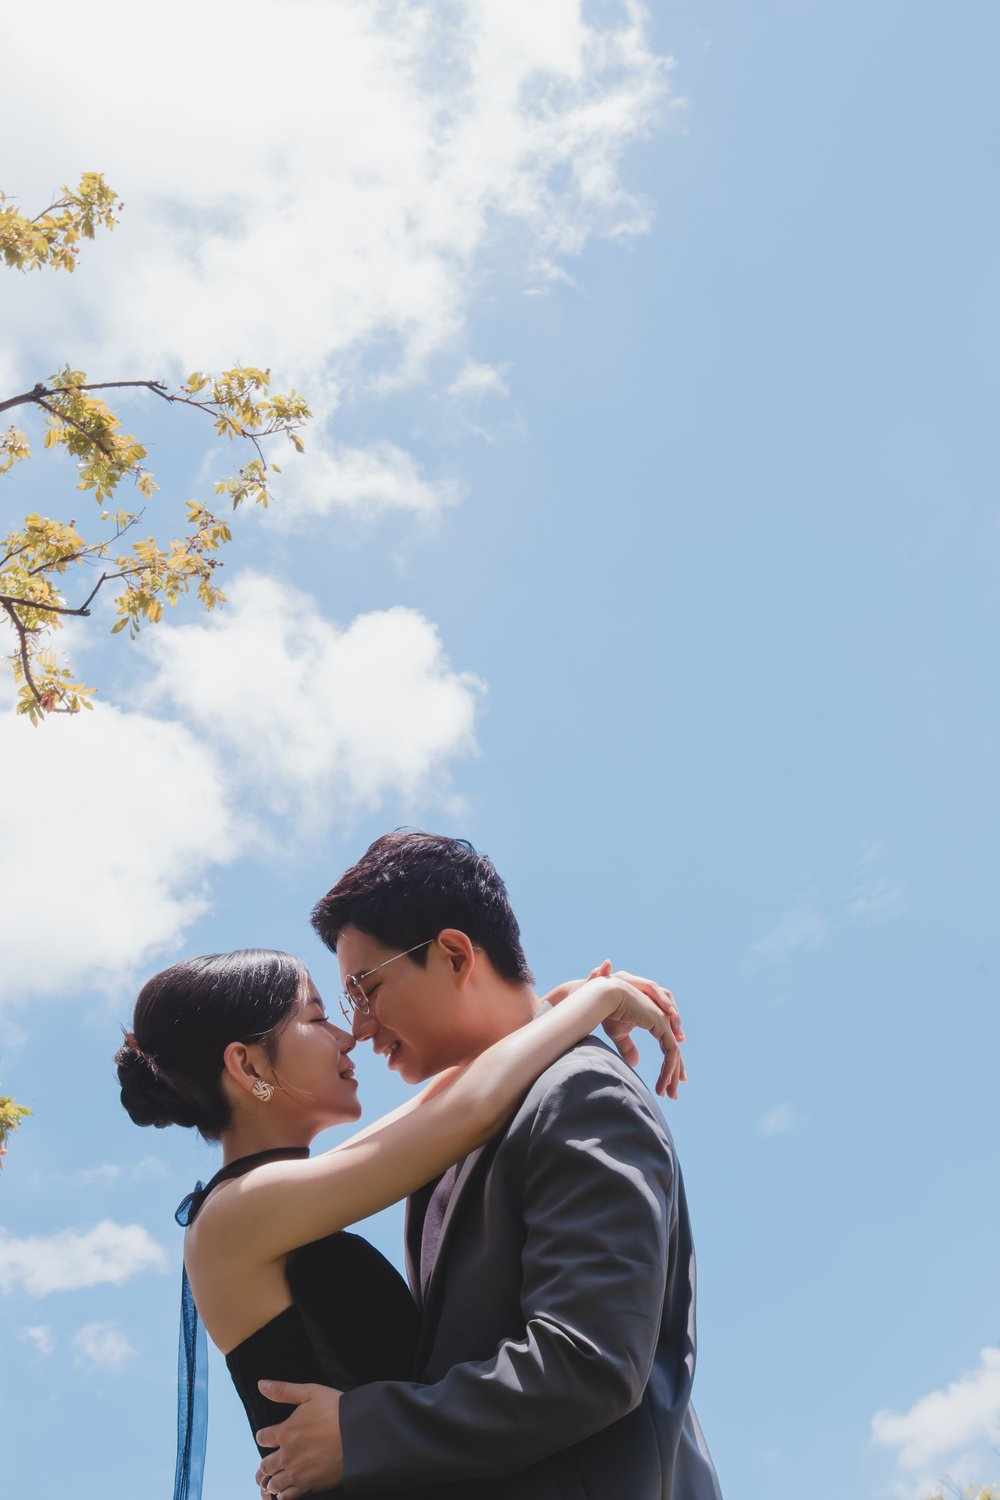
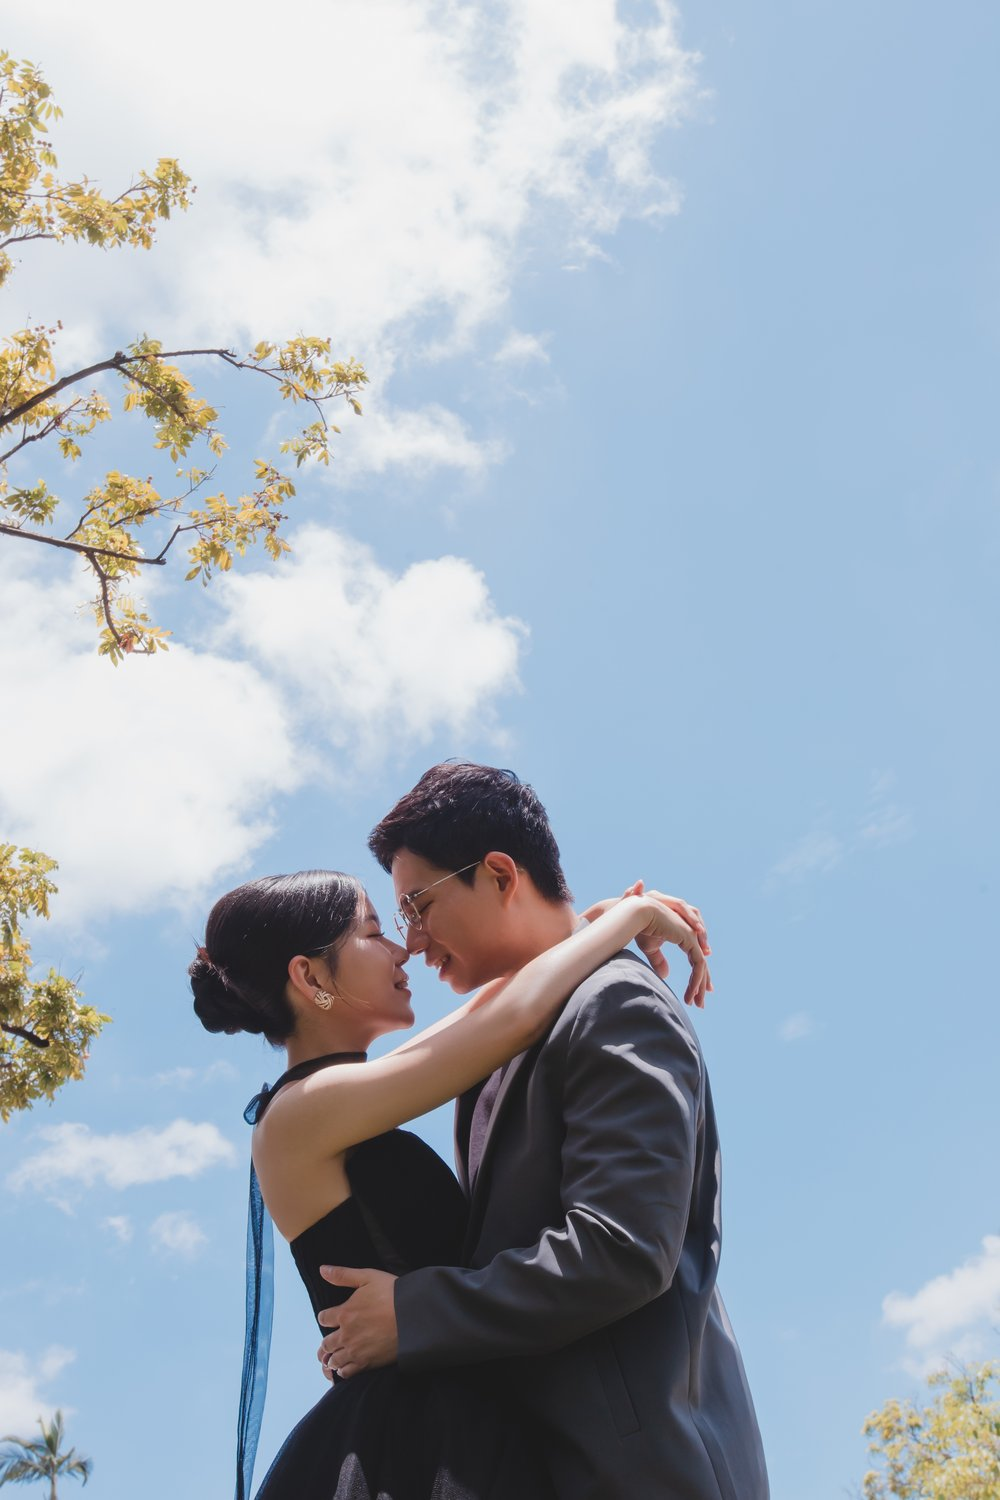
feat(greeting): 「好久不見」改為拍立得相紙，接在致親友照片下方
採用比稿「致親友接好久不見」H 款（依新人手動微調後的配置）：白色相紙微斜 -4 度，照片下方留白寫「好久不見，我們婚禮見」與婚期；手機相紙寬 79.5%、疊住致親友照片淡出的下緣，桌機相紙寬為上方照片的 0.84 倍。
致親友手機照片改用取景比稿甲案：放大倍率由 1.2 降為 1.1，新郎扶在新娘腰上的手與一截裙子入鏡，文字位置同步微調。

diff --git a/src/app/features/greeting/greeting.component.scss b/src/app/features/greeting/greeting.component.scss
@@ -2,8 +2,10 @@
   display: block;
 }
 
-// 底色與上方的「致親友」段落相同，照片上緣淡出時才會直接融進前一段，看不出段落接縫。
+// 底色與上方的「致親友」段落相同。拍立得會往上疊進前一段，所以本段要墊在上面（z-index）。
 .greeting {
+  position: relative;
+  z-index: 1;
   display: flex;
   flex-direction: column;
   align-items: center;
@@ -12,22 +14,39 @@
   text-align: center;
 }
 
-// 手機與桌機各一張照片，依寬度只顯示其中一張；兩張的內容不同，所以各自帶替代文字，而不是用 <picture> 共用一段。
-// 隱藏的那張是 display: none，加上 loading="lazy"，瀏覽器不會去下載它。
-// 照原比例完整顯示、不裁切。手機左右滿版，只淡上下（比稿第 10 式）；
-// 桌機寬 66%、高度不超過螢幕的 70%，照片與下方那句話才能在同一個畫面裡看完，
-// 不貼齊螢幕後左右也會露出邊，所以桌機四邊都淡進背景。
-.greeting__photo {
-  display: block;
-  height: auto;
+// 拍立得相紙（比稿「致親友接好久不見」H 款，依新人手動微調後的配置）：
+// 手機相紙寬為畫面的 79.5%（390 寬時 310），往上疊住「致親友」照片已淡出的下緣約 16px；
+// 平板沿用手機版式，寬度封頂 420，否則相紙會大到比上方照片還搶眼。
+.greeting__card-wrap {
+  width: min(79.5%, 420px);
+  margin-top: -32px;
 }
 
-.greeting__photo--mobile {
+.greeting__card {
+  box-sizing: border-box;
+  display: flex;
+  flex-direction: column;
+  align-items: center;
   width: 100%;
-  aspect-ratio: 2 / 3;
+  padding: 12px 12px 0;
+  background: var(--color-surface);
+  box-shadow: 0 18px 40px rgba(74, 55, 66, 0.22);
+  transform: rotate(-4deg);
+}
+
+// 手機與桌機各一張照片，依寬度只顯示其中一張；兩張的內容不同，所以各自帶替代文字，而不是用 <picture> 共用一段。
+// 隱藏的那張是 display: none，加上 loading="lazy"，瀏覽器不會去下載它。
+.greeting__photo {
+  display: block;
+  width: 100%;
+  height: auto;
   object-fit: cover;
-  -webkit-mask-image: linear-gradient(180deg, transparent 0, #000 12%, #000 82%, transparent 100%);
-  mask-image: linear-gradient(180deg, transparent 0, #000 12%, #000 82%, transparent 100%);
+}
+
+// 相紙裡的照片是 286 × 330，比原圖 2:3 矮，往下取景（62%）讓兩人的全身都在框內。
+.greeting__photo--mobile {
+  aspect-ratio: 286 / 330;
+  object-position: 50% 62%;
 }
 
 .greeting__photo--desktop {
@@ -35,19 +54,20 @@
 }
 
 .greeting__line {
-  margin: 4px 0 0;
+  margin: 16px 0 0;
   font-family: 'Noto Serif TC', serif;
-  font-size: 20px;
+  font-size: 19px;
   font-weight: 500;
-  letter-spacing: 0.34em;
+  letter-spacing: 0.26em;
   // 字距加在字尾會讓置中偏左，左側補同寬的內距抵銷
-  padding-left: 0.34em;
+  padding-left: 0.26em;
+  white-space: nowrap;
   color: #5c4450;
 }
 
 .greeting__date {
-  margin: 12px 0 0;
-  font-size: 15px;
+  margin: 8px 0 18px;
+  font-size: 14px;
   letter-spacing: 0.3em;
   padding-left: 0.3em;
   color: #b08196;
@@ -58,33 +78,36 @@
     padding: 0 0 96px;
   }
 
+  // 相紙寬 = 上方「致親友」照片寬（min(66%, 105vh)）× 0.84，1440 × 900 時為 794；
+  // 桌機的相紙不疊進上一段，而是在照片下方留一段距離、斜斜放著。
+  .greeting__card-wrap {
+    width: calc(min(66%, 105vh) * 0.84);
+    margin-top: 32px;
+  }
+
+  .greeting__card {
+    padding: 16px 16px 0;
+    box-shadow: 0 24px 56px rgba(74, 55, 66, 0.22);
+  }
+
   .greeting__photo--mobile {
     display: none;
   }
 
   .greeting__photo--desktop {
     display: block;
-    // 高度 = 寬 × 2/3 ≤ 70vh，所以寬度上限是 105vh
-    width: min(66%, 105vh);
-    aspect-ratio: 3 / 2;
-    object-fit: cover;
-    -webkit-mask-image:
-      linear-gradient(180deg, transparent 0, #000 10%, #000 86%, transparent 100%),
-      linear-gradient(90deg, transparent 0, #000 8%, #000 92%, transparent 100%);
-    -webkit-mask-composite: source-in;
-    mask-image:
-      linear-gradient(180deg, transparent 0, #000 10%, #000 86%, transparent 100%),
-      linear-gradient(90deg, transparent 0, #000 8%, #000 92%, transparent 100%);
-    mask-composite: intersect;
+    aspect-ratio: 763 / 565;
   }
 
   .greeting__line {
-    margin-top: 8px;
-    font-size: 30px;
+    margin-top: 22px;
+    font-size: 28px;
+    letter-spacing: 0.3em;
+    padding-left: 0.3em;
   }
 
   .greeting__date {
-    margin-top: 16px;
-    font-size: 19px;
+    margin: 10px 0 26px;
+    font-size: 17px;
   }
 }

diff --git a/src/app/features/greeting/greeting.component.html b/src/app/features/greeting/greeting.component.html
@@ -1,33 +1,41 @@
 <section
   class="greeting"
   appScrollReveal
-  [staggerSelector]="'.anim-fade-up, .anim-fade-in'"
+  [staggerSelector]="'.anim-fade-up'"
   [staggerMs]="160"
 >
-  <picture class="webp-picture">
-    <source type="image/webp" [attr.srcset]="text.photoMobileUrl | webpSrcset" sizes="100vw" />
-    <img
-      class="greeting__photo greeting__photo--mobile anim-fade-in"
-      [src]="text.photoMobileUrl"
-      [alt]="text.photoMobileAlt"
-      width="1000"
-      height="1500"
-      loading="lazy"
-      decoding="async"
-    />
-  </picture>
-  <picture class="webp-picture">
-    <source type="image/webp" [attr.srcset]="text.photoDesktopUrl | webpSrcset" sizes="min(66vw, 105vh)" />
-    <img
-      class="greeting__photo greeting__photo--desktop anim-fade-in"
-      [src]="text.photoDesktopUrl"
-      [alt]="text.photoDesktopAlt"
-      width="2400"
-      height="1600"
-      loading="lazy"
-      decoding="async"
-    />
-  </picture>
-  <p class="greeting__line anim-fade-up">{{ text.line }}</p>
-  <p class="greeting__date anim-fade-up">{{ dateDisplay }}</p>
+  <!--
+    外層負責進場的淡入上移、內層負責傾斜：兩者都用 transform，
+    放在同一個元素上的話，進場動畫的 translateY 會蓋掉 rotate，相紙播完動畫就「變正」了。
+  -->
+  <div class="greeting__card-wrap anim-fade-up">
+    <div class="greeting__card">
+      <picture class="webp-picture">
+        <source type="image/webp" [attr.srcset]="text.photoMobileUrl | webpSrcset" sizes="min(80vw, 420px)" />
+        <img
+          class="greeting__photo greeting__photo--mobile"
+          [src]="text.photoMobileUrl"
+          [alt]="text.photoMobileAlt"
+          width="1000"
+          height="1500"
+          loading="lazy"
+          decoding="async"
+        />
+      </picture>
+      <picture class="webp-picture">
+        <source type="image/webp" [attr.srcset]="text.photoDesktopUrl | webpSrcset" sizes="min(56vw, 89vh)" />
+        <img
+          class="greeting__photo greeting__photo--desktop"
+          [src]="text.photoDesktopUrl"
+          [alt]="text.photoDesktopAlt"
+          width="2400"
+          height="1600"
+          loading="lazy"
+          decoding="async"
+        />
+      </picture>
+      <p class="greeting__line">{{ text.line }}</p>
+      <p class="greeting__date">{{ dateDisplay }}</p>
+    </div>
+  </div>
 </section>

diff --git a/src/app/core/config/wedding-content.ts b/src/app/core/config/wedding-content.ts
@@ -274,8 +274,10 @@ export const GREETING_TEXT = {
  * 手機與桌機的照片不同，天空的位置也不同，所以斷行各自維護：手機的天空只有畫面右半邊，
  * 一行最多 11 個字；桌機的天空比較寬，最後兩句併成一行。兩種版本的字要一致，改文案時兩邊都要改。
  *
- * 手機照片是 dobe-5194 放大 1.2 倍、靠右上裁切（原圖左側切掉 672px、下方只取到 5043px）：
- * 不放大的話右側天空只有約 170px 寬，一行放不下 9 個字以上。換照片時要重新確認天空夠不夠放字。
+ * 手機照片是 dobe-5194 放大 1.1 倍、靠右上裁切（原圖左側切掉 367px、下方取到 5500px）：
+ * 放大是為了讓右側天空夠寬放字（不放大只有約 170px，一行放不下 9 個字以上）；
+ * 只放大 1.1 而不是更多，是為了讓新郎扶在新娘腰上的手與一截裙子入鏡（比稿「致親友手機照片取景」甲案）。
+ * 換照片時要重新確認天空夠不夠放字、人有沒有被裁太多。
  */
 export const DEAR_FRIENDS_TEXT = {
   heading: '致 親愛的家人朋友',

diff --git a/src/app/features/dear-friends/dear-friends.component.scss b/src/app/features/dear-friends/dear-friends.component.scss
@@ -37,8 +37,8 @@
 }
 
 .dear__frame--mobile .dear__photo {
-  -webkit-mask-image: linear-gradient(180deg, transparent 0, #000 7%, #000 84%, transparent 100%);
-  mask-image: linear-gradient(180deg, transparent 0, #000 7%, #000 84%, transparent 100%);
+  -webkit-mask-image: linear-gradient(180deg, transparent 0, #000 7%, #000 88%, transparent 100%);
+  mask-image: linear-gradient(180deg, transparent 0, #000 7%, #000 88%, transparent 100%);
 }
 
 // 文字後方把天空微微壓暗，白字才不會被雲吃掉；邊緣完全透明，看不出一塊暗框。
@@ -55,9 +55,9 @@
 
 .dear__frame--mobile .dear__shade {
   left: 38.46%;
-  top: 3.42%;
+  top: 2.74%;
   width: 70.77%;
-  height: 56.41%;
+  height: 54.7%;
 }
 
 .dear__letter {
@@ -81,8 +81,8 @@
 // 字級純粹跟著照片等比縮放（390 寬時內文 17px），不設上下限：設了下限，窄螢幕上字會比天空大、壓到人。
 .dear__frame--mobile {
   .dear__letter {
-    left: 49.23%;
-    top: 9.23%;
+    left: 49.74%;
+    top: 7.86%;
     width: 48.72%;
   }
 

diff --git a/src/app/features/greeting/greeting.component.ts b/src/app/features/greeting/greeting.component.ts
@@ -4,7 +4,7 @@ import { WebpSrcsetPipe } from '../../shared/webp-srcset.pipe'
 import { GREETING_TEXT, WEDDING_CONTENT } from '../../core/config/wedding-content'
 
 /**
- * 「致親友」與交通資訊之間的過場：一張照片淡進背景，下方置中一句「好久不見，我們婚禮見」。
+ * 「致親友」與交通資訊之間的過場：一張微斜的拍立得相紙，照片下方的留白寫著「好久不見，我們婚禮見」與婚期。
  * 不帶段落抬頭、不放任何按鈕 —— 它是兩段之間的一口呼吸，不是一個新的資訊區。
  */
 @Component({
